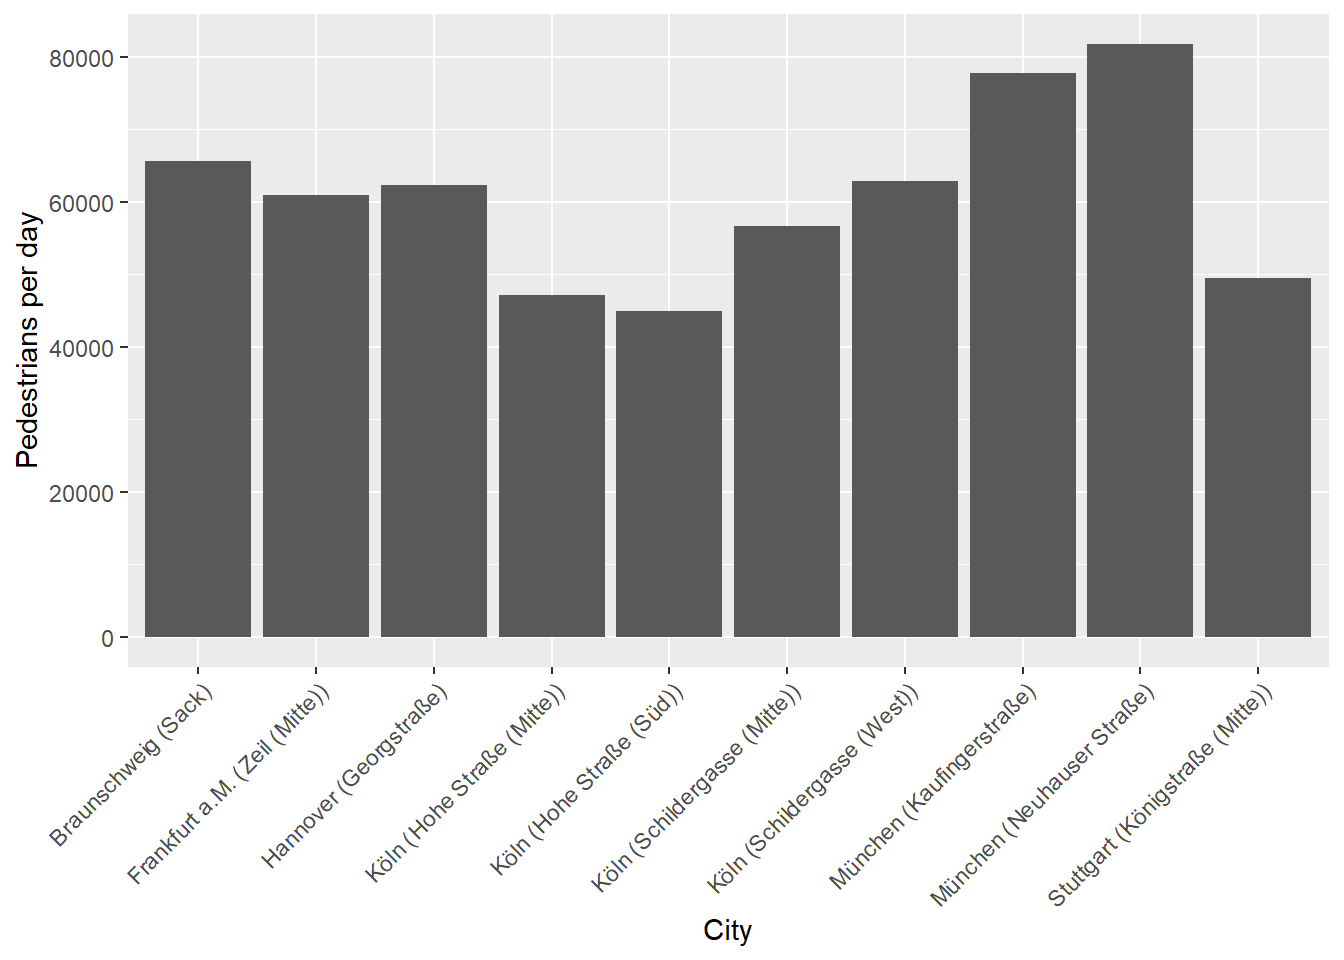
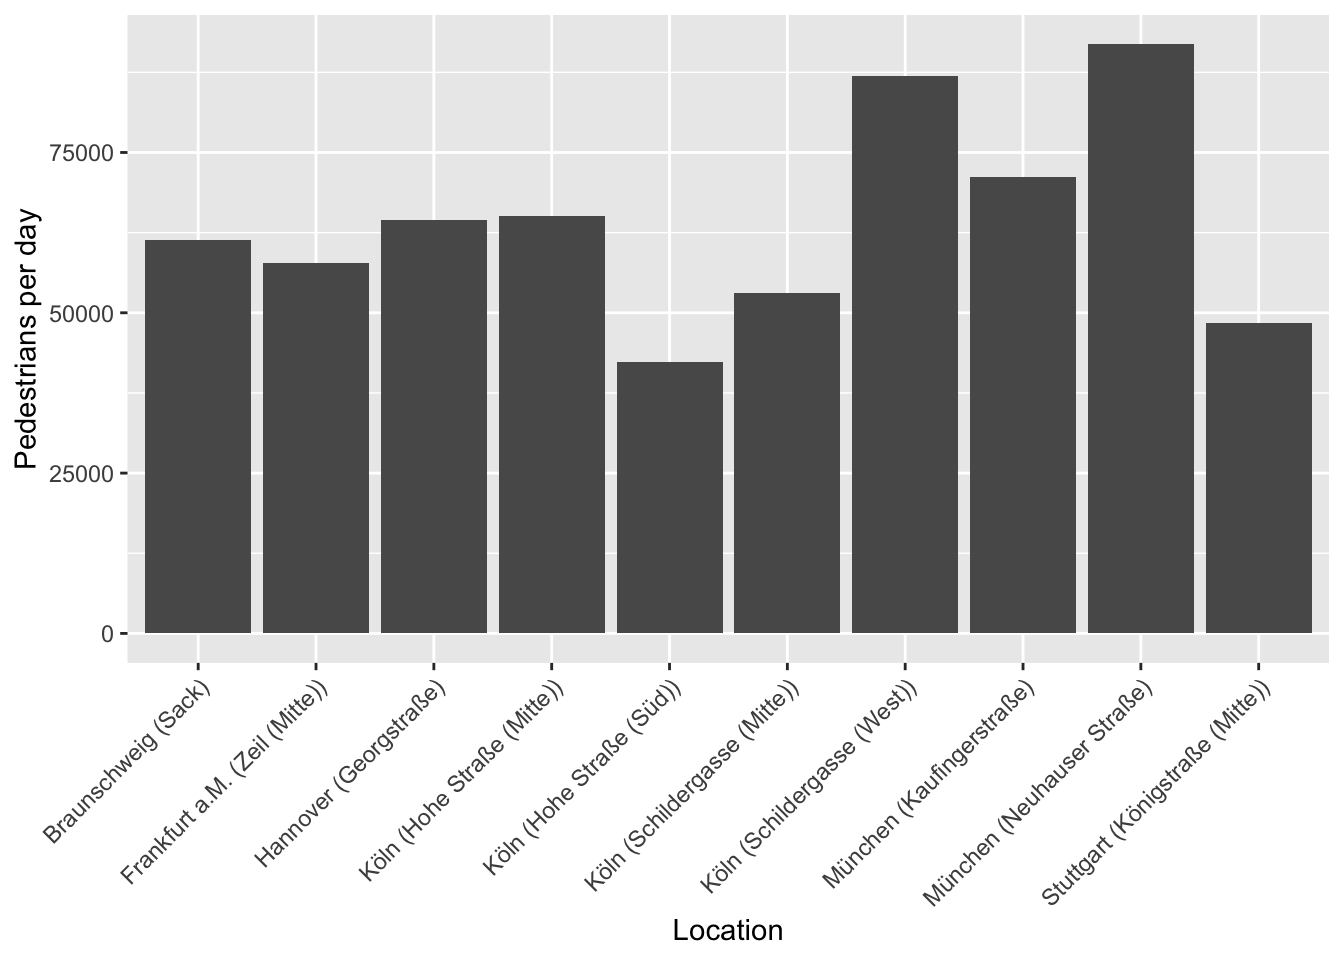
knit Readme and pkgdown after merging

diff --git a/docs/index.html b/docs/index.html
@@ -85,12 +85,12 @@
 <div id="introduction" class="section level2">
 <h2 class="hasAnchor">
 <a href="#introduction" class="anchor"></a>Introduction</h2>
-<p><a href="https://hystreet.com">hystreet</a> is a company collecting pedestrains in german cities. After registering you can download the data for free from 19 cities.</p>
+<p><a href="https://hystreet.com">hystreet</a> is a company that collects data on pedestrian traffic in shopping streets of different German cities. After registering you can access and download the data via their website.</p>
 </div>
 <div id="installation" class="section level2">
 <h2 class="hasAnchor">
 <a href="#installation" class="anchor"></a>Installation</h2>
-<p>Until now the package is not on CRAN but you can download it via GitHub with the following command:</p>
+<p>Until now the package is not on CRAN but you can install it from GitHub with the following command:</p>
 <div class="sourceCode" id="cb1"><pre class="r"><span class="kw">if</span> (!<span class="fu"><a href="https://rdrr.io/r/base/library.html">require</a></span>(<span class="st">"devtools"</span>))
   <span class="fu"><a href="https://rdrr.io/r/utils/install.packages.html">install.packages</a></span>(<span class="st">"devtools"</span>)
 <span class="kw pkg">devtools</span><span class="kw ns">::</span><span class="fu"><a href="https://devtools.r-lib.org//reference/remote-reexports.html">install_github</a></span>(<span class="st">"JohannesFriedrich/hystReet"</span>)</pre></div>
@@ -98,15 +98,15 @@
 <div id="api-keys" class="section level2">
 <h2 class="hasAnchor">
 <a href="#api-keys" class="anchor"></a>API Keys</h2>
-<p>To use this package, you will first need to get your hystreet API key. To do so, go to this link: <a href="https://hystreet.com/" class="uri">https://hystreet.com/</a>, log in to your accunt and you will find you key in your profile.</p>
+<p>To use this package, you will first need to get a hystreet API key. To do so, you first need to set up an account on <a href="https://hystreet.com/" class="uri">https://hystreet.com/</a>. After that you can request an API key via <a href="mailto:info@hystreet.com">e-mail</a>. Once your request has been granted, you will find you key in your hystreet account profile.</p>
 <p>Now you have three options:</p>
 <p>1)<br>
-Once you have your key, save it as an environment variable for the current session by running the following:</p>
+Once you have your key, you can save it as an environment variable for the current session by running the following command:</p>
 <div class="sourceCode" id="cb2"><pre class="r"><span class="fu"><a href="https://rdrr.io/r/base/Sys.setenv.html">Sys.setenv</a></span>(<span class="kw">HYSTREET_API_TOKEN</span> <span class="kw">=</span> <span class="st">"PASTE YOUR API TOKEN HERE"</span>)</pre></div>
-<p>2) Alternatively, you can set it permanently with the help of <code><a href="https://usethis.r-lib.org/reference/edit.html">usethis::edit_r_environ()</a></code> by adding the line to your <code>.Renviron</code>:</p>
+<p>2) Alternatively, you can set it permanently with the help of <code><a href="https://usethis.r-lib.org/reference/edit.html">usethis::edit_r_environ()</a></code> by adding the following line to your <code>.Renviron</code>:</p>
 <!-- end list -->
-<div class="sourceCode" id="cb3"><pre class="sourceCode R"><code class="sourceCode r"><a class="sourceLine" id="cb3-1" data-line-number="1">HYSTREET_API_TOKEN =<span class="st"> </span>PASTE YOUR API TOKEN HERE</a></code></pre></div>
-<p>3) If you don’t want to save it here, you can input it in each function using the <code>API_token</code> parameter.</p>
+<div class="sourceCode" id="cb3"><pre class="sourceCode R"><code class="sourceCode r"><span id="cb3-1"><a href="#cb3-1"></a>HYSTREET_API_TOKEN =<span class="st"> </span>PASTE YOUR API TOKEN HERE</span></code></pre></div>
+<p>3) If you don’t want to save your API token here, you can enter it for each function of this package using the <code>API_token</code> parameter.</p>
 </div>
 <div id="usage" class="section level2">
 <h2 class="hasAnchor">
@@ -130,7 +130,7 @@ Once you have your key, save it as an environment variable for the current sessi
 </tr>
 <tr class="even">
 <td>get_hystreet_locations()</td>
-<td>request all qvailable locations</td>
+<td>request all available locations</td>
 <td>get_hystreet_locations()</td>
 </tr>
 <tr class="odd">
@@ -148,7 +148,7 @@ Once you have your key, save it as an environment variable for the current sessi
 <div id="load-some-statistics" class="section level3">
 <h3 class="hasAnchor">
 <a href="#load-some-statistics" class="anchor"></a>Load some statistics</h3>
-<p>The function ‘get_hystreet_stats()’ summarises the number of available stations and the sum of all counted pedestrians.</p>
+<p>The function <code><a href="reference/get_hystreet_stats.html">get_hystreet_stats()</a></code> summarises the number of available stations and the sum of all counted pedestrians.</p>
 <div class="sourceCode" id="cb4"><pre class="r"><span class="fu"><a href="https://rdrr.io/r/base/library.html">library</a></span>(<span class="no">hystReet</span>)
 <span class="co">## Loading required package: httr</span>
 <span class="co">## Loading required package: jsonlite</span>
@@ -171,10 +171,10 @@ Once you have your key, save it as an environment variable for the current sessi
 </tr></thead>
 <tbody><tr>
 <td style="text-align:right;">
-<p>117</p>
+<p>119</p>
 </td>
 <td style="text-align:right;">
-<p>230518</p>
+<p>1085039</p>
 </td>
 </tr></tbody>
 </table>
@@ -182,7 +182,7 @@ Once you have your key, save it as an environment variable for the current sessi
 <div id="request-all-stations" class="section level3">
 <h3 class="hasAnchor">
 <a href="#request-all-stations" class="anchor"></a>Request all stations</h3>
-<p>The function ‘get_hystreet_locations()’ requests all available stations of the project.</p>
+<p>The function <code><a href="reference/get_hystreet_locations.html">get_hystreet_locations()</a></code> generates a data frame with all available stations of the project.</p>
 <div class="sourceCode" id="cb6"><pre class="r"><span class="no">locations</span> <span class="kw">&lt;-</span> <span class="fu"><a href="reference/get_hystreet_locations.html">get_hystreet_locations</a></span>()</pre></div>
 <div class="sourceCode" id="cb7"><pre class="r"><span class="no">locations</span></pre></div>
 <table class="table">
@@ -314,16 +314,16 @@ Once you have your key, save it as an environment variable for the current sessi
 <div id="request-data-from-a-specific-station" class="section level3">
 <h3 class="hasAnchor">
 <a href="#request-data-from-a-specific-station" class="anchor"></a>Request data from a specific station</h3>
-<p>The (probably) most interesting function is ‘get_hystreet_station_data()’. With the hystreetID it is possible to request a specific station. By default, all the data from the current day are received. With the ‘query’ argument it is possible to set the received data more precise: * from: datetime of earliest measurement (default: today 00:00:00:): e.g. “2018-10-01 12:00:00” or “2018-10-01” * to : datetime of latest measurement (default: today 23:59:59): e.g. “2018-12-01 12:00:00” or “2018-12-01” * resoution: Resultion for the measurement grouping (default: hour): “day”, “hour”, “month”, “week”</p>
+<p>The (probably) most interesting function is <code><a href="reference/get_hystreet_station_data.html">get_hystreet_station_data()</a></code>. Using the hystreetID it is possible to request a specific station. By default, all the data from the current day are received. With the <code>query</code> argument it is possible to define the time and sampling frame of the data more precisely: <code>from</code>: datetime of earliest measurement (default: today 00:00:00:): e.g. “2018-10-01 12:00:00” or “2018-10-01” <code>to</code> : datetime of latest measurement (default: today 23:59:59): e.g. “2018-12-01 12:00:00” or “2018-12-01” <code>resoution</code>: Resultion for the measurement (default: hour): “day”, “hour”, “month”, “week”</p>
 <div class="sourceCode" id="cb8"><pre class="r"><span class="no">data</span> <span class="kw">&lt;-</span> <span class="fu"><a href="reference/get_hystreet_station_data.html">get_hystreet_station_data</a></span>(
   <span class="kw">hystreetId</span> <span class="kw">=</span> <span class="fl">71</span>,
   <span class="kw">query</span> <span class="kw">=</span> <span class="fu"><a href="https://rdrr.io/r/base/list.html">list</a></span>(<span class="kw">from</span> <span class="kw">=</span> <span class="st">"2018-12-01"</span>, <span class="kw">to</span> <span class="kw">=</span> <span class="st">"2018-12-31"</span>, <span class="kw">resolution</span> <span class="kw">=</span> <span class="st">"day"</span>))</pre></div>
 </div>
 </div>
-<div id="some-ideas-to-visualise-the-data" class="section level2">
+<div id="some-ideas-for-visualising-the-data" class="section level2">
 <h2 class="hasAnchor">
-<a href="#some-ideas-to-visualise-the-data" class="anchor"></a>Some ideas to visualise the data</h2>
-<p>Let´s see if we can see the most frequent days before christmas … I think it could be saturday ;-). Also nice to see the 24th and 25th of December … holidays in Germany :-).</p>
+<a href="#some-ideas-for-visualising-the-data" class="anchor"></a>Some ideas for visualising the data</h2>
+<p>Let´s see if we can find the busiest days in December 2018. Saturdays were probably quite busy, while there should have been substantially less pedestrian traffic on the 24th and 25th of December, both of which are holidays in Germany.</p>
 <div class="sourceCode" id="cb9"><pre class="r"><span class="no">data</span> <span class="kw">&lt;-</span> <span class="fu"><a href="reference/get_hystreet_station_data.html">get_hystreet_station_data</a></span>(
     <span class="kw">hystreetId</span> <span class="kw">=</span> <span class="fl">71</span>,
     <span class="kw">query</span> <span class="kw">=</span> <span class="fu"><a href="https://rdrr.io/r/base/list.html">list</a></span>(<span class="kw">from</span> <span class="kw">=</span> <span class="st">"2018-12-01"</span>, <span class="kw">to</span> <span class="kw">=</span> <span class="st">"2019-01-01"</span>, <span class="kw">resolution</span> <span class="kw">=</span> <span class="st">"hour"</span>))</pre></div>
@@ -340,7 +340,7 @@ Once you have your key, save it as an environment variable for the current sessi
 <div id="compare-different-stations" class="section level3">
 <h3 class="hasAnchor">
 <a href="#compare-different-stations" class="anchor"></a>Compare different stations</h3>
-<p>Now let´s compare different stations:</p>
+<p>Now let´s compare data from different stations:</p>
 <p>1) Load the data</p>
 <!-- end list -->
 <div class="sourceCode" id="cb11"><pre class="r"><span class="no">data_73</span> <span class="kw">&lt;-</span> <span class="fu"><a href="reference/get_hystreet_station_data.html">get_hystreet_station_data</a></span>(
@@ -386,21 +386,21 @@ Once you have your key, save it as an environment variable for the current sessi
 })
 
 <span class="no">ratio</span> <span class="kw">&lt;-</span> <span class="fu">bind_rows</span>(<span class="no">all_data</span>)</pre></div>
-<p>What stations have the highest ratio?</p>
+<p>Which stations have the highest ratio?</p>
 <div class="sourceCode" id="cb14"><pre class="r"><span class="no">ratio</span> <span class="kw">%&gt;%</span>
   <span class="fu">top_n</span>(<span class="fl">5</span>, <span class="no">ratio</span>) <span class="kw">%&gt;%</span>
   <span class="fu">arrange</span>(<span class="fu">desc</span>(<span class="no">ratio</span>))
-<span class="co">##    id                       station    ratio</span>
-<span class="co">## 1  73    München (Neuhauser Straße) 85458.05</span>
-<span class="co">## 2 165     München (Kaufingerstraße) 79790.84</span>
-<span class="co">## 3 131           Braunschweig (Sack) 66826.53</span>
-<span class="co">## 4 150 Frankfurt a.M. (Zeil (Mitte)) 61987.19</span>
-<span class="co">## 5  63        Hannover (Georgstraße) 61943.64</span></pre></div>
-<p>Now let´s visualise the top 10 cities:</p>
+<span class="co">##    id                     station    ratio</span>
+<span class="co">## 1  73  München (Neuhauser Straße) 91904.43</span>
+<span class="co">## 2  47 Köln (Schildergasse (West)) 86939.41</span>
+<span class="co">## 3 165   München (Kaufingerstraße) 71187.87</span>
+<span class="co">## 4  48  Köln (Hohe Straße (Mitte)) 65037.64</span>
+<span class="co">## 5  63      Hannover (Georgstraße) 64433.47</span></pre></div>
+<p>Now let´s visualise the top 10 locations:</p>
 <div class="sourceCode" id="cb15"><pre class="r"><span class="fu">ggplot</span>(<span class="no">ratio</span> <span class="kw">%&gt;%</span>
          <span class="fu">top_n</span>(<span class="fl">10</span>,<span class="no">ratio</span>), <span class="fu">aes</span>(<span class="no">station</span>, <span class="no">ratio</span>)) +
   <span class="fu">geom_bar</span>(<span class="kw">stat</span> <span class="kw">=</span> <span class="st">"identity"</span>) +
-  <span class="fu">labs</span>(<span class="kw">x</span> <span class="kw">=</span> <span class="st">"City"</span>,
+  <span class="fu">labs</span>(<span class="kw">x</span> <span class="kw">=</span> <span class="st">"Location"</span>,
        <span class="kw">y</span> <span class="kw">=</span> <span class="st">"Pedestrians per day"</span>) +
     <span class="fu">theme</span>(<span class="kw">legend.position</span> <span class="kw">=</span> <span class="st">"bottom"</span>,
         <span class="kw">axis.text.x</span> <span class="kw">=</span> <span class="fu">element_text</span>(<span class="kw">angle</span> <span class="kw">=</span> <span class="fl">45</span>, <span class="kw">hjust</span> <span class="kw">=</span> <span class="fl">1</span>))</pre></div>
@@ -414,6 +414,8 @@ Once you have your key, save it as an environment variable for the current sessi
     <div class="links">
 <h2>Links</h2>
 <ul class="list-unstyled">
+<li>Download from CRAN at <br><a href="https://cloud.r-project.org/package=hystReet">https://cloud.r-project.org/package=hystReet</a>
+</li>
 <li>Browse source code at <br><a href="https://github.com/JohannesFriedrich/hystReet/">https://github.com/JohannesFriedrich/hystReet/</a>
 </li>
 <li>Report a bug at <br><a href="https://github.com/JohannesFriedrich/hystReet/issues">https://github.com/JohannesFriedrich/hystReet/issues</a>
@@ -436,6 +438,9 @@ Once you have your key, save it as an environment variable for the current sessi
   <div class="dev-status">
 <h2>Dev status</h2>
 <ul class="list-unstyled">
+<li><a href="https://CRAN.R-project.org/package=hystReet"><img src="http://www.r-pkg.org/badges/version/hystReet" alt="CRAN"></a></li>
+<li><a href="https://travis-ci.org/JohannesFriedrich/hystReet"><img src="https://travis-ci.org/JohannesFriedrich/hystReet.svg?branch=master" alt="Build Status"></a></li>
+<li><a href="https://ci.appveyor.com/project/JohannesFriedrich/hystreet"><img src="https://ci.appveyor.com/api/projects/status/hfno1wngf2yqs4e9?svg=true" alt="Build status"></a></li>
 <li><a href="http://www.repostatus.org/#active"><img src="http://www.repostatus.org/badges/latest/active.svg" alt="Project Status: Active – The project has reached a stable, usable state and is being actively developed."></a></li>
 </ul>
 </div>
@@ -448,7 +453,7 @@ Once you have your key, save it as an environment variable for the current sessi
 </div>
 
 <div class="pkgdown">
-  <p>Site built with <a href="https://pkgdown.r-lib.org/">pkgdown</a> 1.5.0.</p>
+  <p>Site built with <a href="https://pkgdown.r-lib.org/">pkgdown</a> 1.5.1.</p>
 </div>
 
       </footer>

diff --git a/docs/articles/Getting_started_with_the_R_package_hystReet.html b/docs/articles/Getting_started_with_the_R_package_hystReet.html
@@ -76,13 +76,13 @@
 
       
 
-      </header><div class="row">
+      </header><script src="Getting_started_with_the_R_package_hystReet_files/header-attrs-2.1.2/header-attrs.js"></script><div class="row">
   <div class="col-md-9 contents">
     <div class="page-header toc-ignore">
       <h1 data-toc-skip>Getting started with the R-package hystReet</h1>
                         <h4 class="author">Johannes Friedrich</h4>
             
-            <h4 class="date">2020-03-31</h4>
+            <h4 class="date">2020-04-23</h4>
       
       <small class="dont-index">Source: <a href="https://github.com/JohannesFriedrich/hystReet/blob/master/vignettes/Getting_started_with_the_R_package_hystReet.Rmd"><code>vignettes/Getting_started_with_the_R_package_hystReet.Rmd</code></a></small>
       <div class="hidden name"><code>Getting_started_with_the_R_package_hystReet.Rmd</code></div>
@@ -298,7 +298,7 @@ Erlangen
 <div id="request-data-from-a-specific-station" class="section level2">
 <h2 class="hasAnchor">
 <a href="#request-data-from-a-specific-station" class="anchor"></a>Request data from a specific station</h2>
-<p>The (probably) most interesting function is ‘get_hystreet_station_data()’. With the hystreetID it is possible to request a specific station. By default, all the data from the current day are received. With the ‘query’ argument it is possible to set the received data more precise: * from: datetime of earliest measurement (default: today 00:00:00:): e.g. “2018-10-01 12:00:00” or “2018-10-01” * to : datetime of latest measurement (default: today 23:59:59): e.g. “2018-12-01 12:00:00” or “2018-12-01” * resoution: Resultion for the measurement grouping (default: hour): “day”, “hour”, “month”, “week”</p>
+<p>The (probably) most interesting function is ‘get_hystreet_station_data()’. With the hystreetID it is possible to request a specific station. By default, all the data from the current day are received. With the ‘query’ argument it is possible to set the received data more precise: * from: datetime of earliest measurement (default: today 00:00:00:): e.g. “2018-10-01 12:00:00” or “2018-10-01” * to : datetime of latest measurement (default: today 23:59:59): e.g. “2018-12-01 12:00:00” or “2018-12-01” * resoution: Resultion for the measurement grouping (default: hour): “day”, “hour”, “month”, “week”</p>
 <div class="sourceCode" id="cb5"><html><body><pre class="r"><span class="no">location_71</span> <span class="kw">&lt;-</span> <span class="fu"><a href="../reference/get_hystreet_station_data.html">get_hystreet_station_data</a></span>(
   <span class="kw">hystreetId</span> <span class="kw">=</span> <span class="fl">71</span>,
   <span class="kw">query</span> <span class="kw">=</span> <span class="fu"><a href="https://rdrr.io/r/base/list.html">list</a></span>(<span class="kw">from</span> <span class="kw">=</span> <span class="st">"2018-12-01"</span>, <span class="kw">to</span> <span class="kw">=</span> <span class="st">"2018-12-31"</span>, <span class="kw">resolution</span> <span class="kw">=</span> <span class="st">"day"</span>))</pre></body></html></div>
@@ -409,7 +409,7 @@ Erlangen
 </div>
 
 <div class="pkgdown">
-  <p>Site built with <a href="https://pkgdown.r-lib.org/">pkgdown</a> 1.5.0.</p>
+  <p>Site built with <a href="https://pkgdown.r-lib.org/">pkgdown</a> 1.5.1.</p>
 </div>
 
       </footer>

diff --git a/docs/articles/Getting_started_with_the_R_package_hystReet_files/header-attrs-2.1.2/header-attrs.js b/docs/articles/Getting_started_with_the_R_package_hystReet_files/header-attrs-2.1.2/header-attrs.js
@@ -1,0 +1,12 @@
+// Pandoc 2.9 adds attributes on both header and div. We remove the former (to
+// be compatible with the behavior of Pandoc < 2.8).
+document.addEventListener('DOMContentLoaded', function(e) {
+  var hs = document.querySelectorAll("div.section[class*='level'] > :first-child");
+  var i, h, a;
+  for (i = 0; i < hs.length; i++) {
+    h = hs[i];
+    if (!/^h[1-6]$/i.test(h.tagName)) continue;  // it should be a header h1-h6
+    a = h.attributes;
+    while (a.length > 0) h.removeAttribute(a[0].name);
+  }
+});

diff --git a/docs/reference/hystReet-package.html b/docs/reference/hystReet-package.html
@@ -161,7 +161,7 @@ Download and analyse environmental data provided by https://hystreet.com/</p>
 </div>
 
 <div class="pkgdown">
-  <p>Site built with <a href="https://pkgdown.r-lib.org/">pkgdown</a> 1.5.0.</p>
+  <p>Site built with <a href="https://pkgdown.r-lib.org/">pkgdown</a> 1.5.1.</p>
 </div>
 
       </footer>

diff --git a/docs/404.html b/docs/404.html
@@ -142,7 +142,7 @@ Content not found. Please use links in the navbar.
 </div>
 
 <div class="pkgdown">
-  <p>Site built with <a href="https://pkgdown.r-lib.org/">pkgdown</a> 1.5.0.</p>
+  <p>Site built with <a href="https://pkgdown.r-lib.org/">pkgdown</a> 1.5.1.</p>
 </div>
 
       </footer>

diff --git a/docs/reference/get_hystreet_station_data.html b/docs/reference/get_hystreet_station_data.html
@@ -189,7 +189,7 @@ available IDs.</p></td>
 </div>
 
 <div class="pkgdown">
-  <p>Site built with <a href="https://pkgdown.r-lib.org/">pkgdown</a> 1.5.0.</p>
+  <p>Site built with <a href="https://pkgdown.r-lib.org/">pkgdown</a> 1.5.1.</p>
 </div>
 
       </footer>

diff --git a/docs/articles/index.html b/docs/articles/index.html
@@ -141,7 +141,7 @@
 </div>
 
 <div class="pkgdown">
-  <p>Site built with <a href="https://pkgdown.r-lib.org/">pkgdown</a> 1.5.0.</p>
+  <p>Site built with <a href="https://pkgdown.r-lib.org/">pkgdown</a> 1.5.1.</p>
 </div>
 
       </footer>

diff --git a/docs/authors.html b/docs/authors.html
@@ -141,7 +141,7 @@
 </div>
 
 <div class="pkgdown">
-  <p>Site built with <a href="https://pkgdown.r-lib.org/">pkgdown</a> 1.5.0.</p>
+  <p>Site built with <a href="https://pkgdown.r-lib.org/">pkgdown</a> 1.5.1.</p>
 </div>
 
       </footer>

diff --git a/docs/reference/data.html b/docs/reference/data.html
@@ -150,7 +150,7 @@
 </div>
 
 <div class="pkgdown">
-  <p>Site built with <a href="https://pkgdown.r-lib.org/">pkgdown</a> 1.5.0.</p>
+  <p>Site built with <a href="https://pkgdown.r-lib.org/">pkgdown</a> 1.5.1.</p>
 </div>
 
       </footer>

diff --git a/docs/reference/dot-create_hystreet_request.html b/docs/reference/dot-create_hystreet_request.html
@@ -170,7 +170,7 @@
 </div>
 
 <div class="pkgdown">
-  <p>Site built with <a href="https://pkgdown.r-lib.org/">pkgdown</a> 1.5.0.</p>
+  <p>Site built with <a href="https://pkgdown.r-lib.org/">pkgdown</a> 1.5.1.</p>
 </div>
 
       </footer>

diff --git a/docs/reference/get_hystreet_locations.html b/docs/reference/get_hystreet_locations.html
@@ -166,7 +166,7 @@
 </div>
 
 <div class="pkgdown">
-  <p>Site built with <a href="https://pkgdown.r-lib.org/">pkgdown</a> 1.5.0.</p>
+  <p>Site built with <a href="https://pkgdown.r-lib.org/">pkgdown</a> 1.5.1.</p>
 </div>
 
       </footer>

diff --git a/docs/reference/get_hystreet_stats.html b/docs/reference/get_hystreet_stats.html
@@ -170,7 +170,7 @@
 </div>
 
 <div class="pkgdown">
-  <p>Site built with <a href="https://pkgdown.r-lib.org/">pkgdown</a> 1.5.0.</p>
+  <p>Site built with <a href="https://pkgdown.r-lib.org/">pkgdown</a> 1.5.1.</p>
 </div>
 
       </footer>
